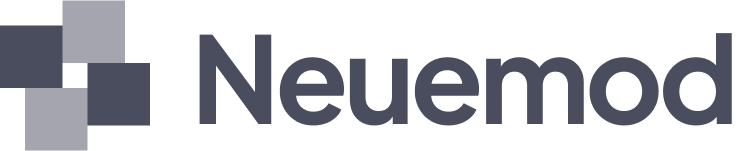
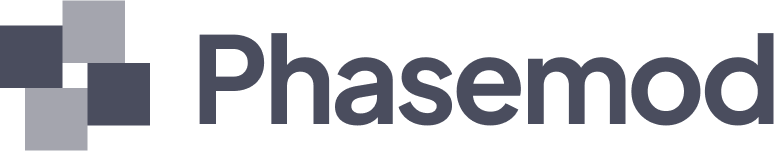
Updated branding name

diff --git a/README.md b/README.md
@@ -1,3 +1,3 @@
-# Nexa Project Branding
+# Phasemod Project Branding
 
-The offical Nexa Project branding graphic assets
+The offical Phasemod Project branding graphic assets
